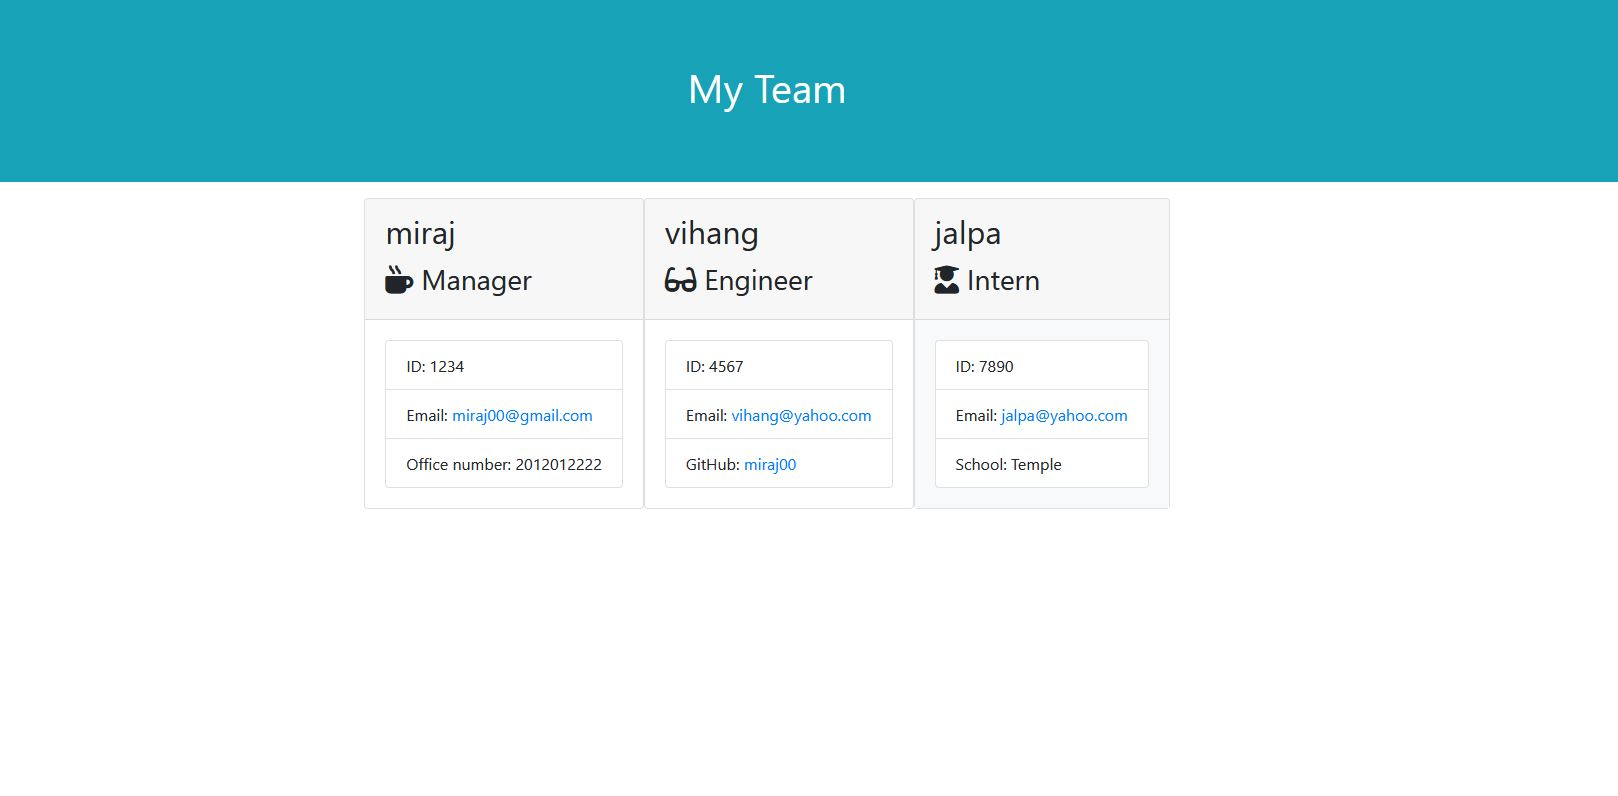
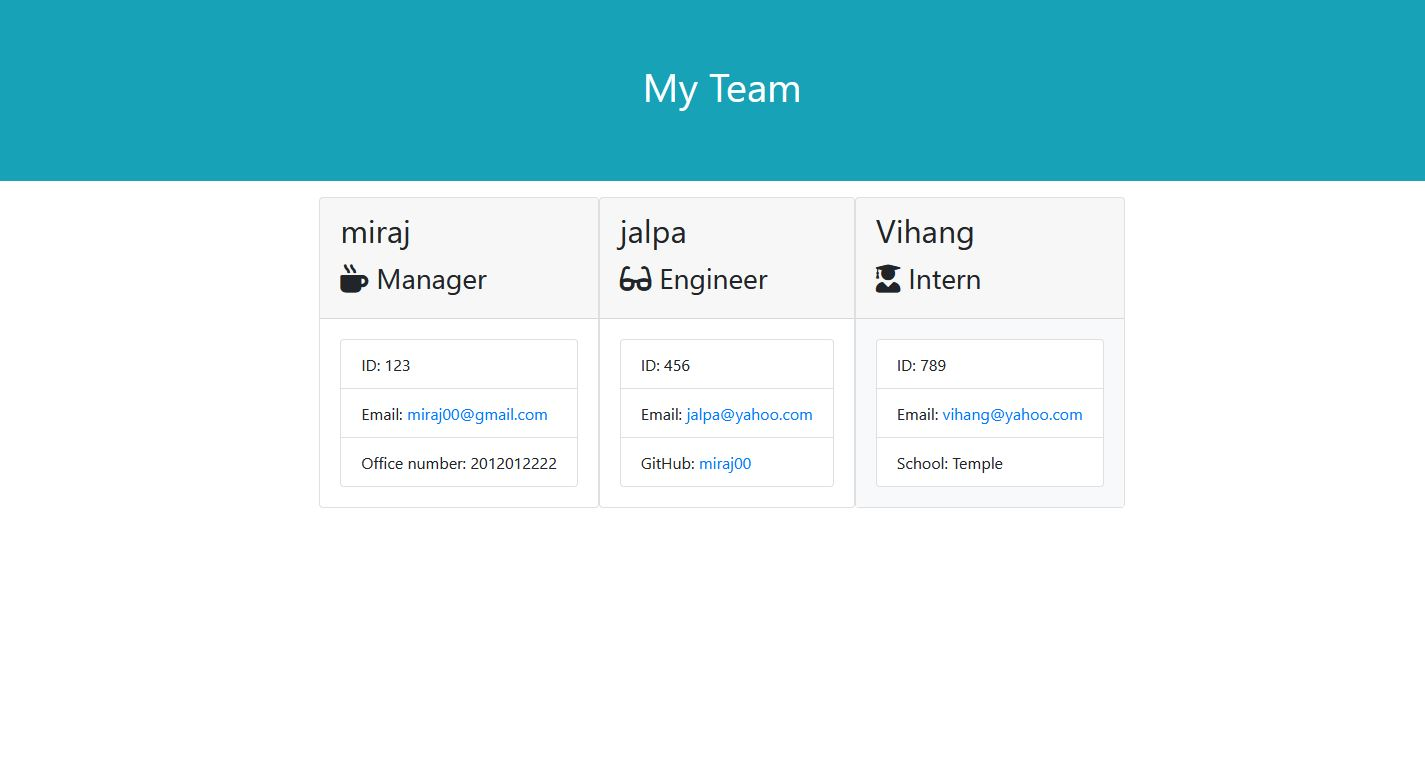
npm test added in Demo

diff --git a/output/team.html b/output/team.html
@@ -30,7 +30,7 @@
     </div>
     <div class="card-body">
         <ul class="list-group">
-            <li class="list-group-item">ID: 1234</li>
+            <li class="list-group-item">ID: 123</li>
             <li class="list-group-item">Email: <a href="mailto:miraj00@gmail.com">miraj00@gmail.com</a></li>
             <li class="list-group-item">Office number: 2012012222</li>
         </ul>
@@ -38,26 +38,26 @@
 </div>
 <div class="card employee-card">
     <div class="card-header">
-        <h2 class="card-title">vihang</h2>
+        <h2 class="card-title">jalpa</h2>
         <h3 class="card-title"><i class="fas fa-glasses mr-2"></i>Engineer</h3>
     </div>
     <div class="card-body">
         <ul class="list-group">
-            <li class="list-group-item">ID: 4567</li>
-            <li class="list-group-item">Email: <a href="mailto:vihang@yahoo.com">vihang@yahoo.com</a></li>
+            <li class="list-group-item">ID: 456</li>
+            <li class="list-group-item">Email: <a href="mailto:jalpa@yahoo.com">jalpa@yahoo.com</a></li>
             <li class="list-group-item">GitHub: <a href="https://github.com/miraj00" target="_blank" rel="noopener noreferrer">miraj00</a></li>
         </ul>
     </div>
 </div>
 <div class="card employee-card">
     <div class="card-header">
-        <h2 class="card-title">jalpa</h2>
+        <h2 class="card-title">Vihang</h2>
         <h3 class="card-title"><i class="fas fa-user-graduate mr-2"></i>Intern</h3>
     </div>
     <div class="card-body bg-light">
         <ul class="list-group">
-            <li class="list-group-item">ID: 7890</li>
-            <li class="list-group-item">Email: <a href="mailto:jalpa@yahoo.com">jalpa@yahoo.com</a></li>
+            <li class="list-group-item">ID: 789</li>
+            <li class="list-group-item">Email: <a href="mailto:vihang@yahoo.com">vihang@yahoo.com</a></li>
             <li class="list-group-item">School: Temple</li>
         </ul>
     </div>

diff --git a/test/Engineer.test.js b/test/Engineer.test.js
@@ -1,7 +1,7 @@
 const Engineer = require("../lib/Engineer");
 
-test("Can set GitHUb account via constructor", () => {
-  const testValue = "GitHubUser";
+test("Can set GitHub account via constructor", () => {
+  const testValue = this.github;
   const e = new Engineer("Foo", 1, "test@test.com", testValue);
   expect(e.github).toBe(testValue);
 });
@@ -13,7 +13,10 @@ test("getRole() should return \"Engineer\"", () => {
 });
 
 test("Can get GitHub username via getGithub()", () => {
-  const testValue = "GitHubUser";
+  const testValue = this.github;
   const e = new Engineer("Foo", 1, "test@test.com", testValue);
   expect(e.getGithub()).toBe(testValue);
 });
+
+
+// "GitHubUser"

diff --git a/test/Employee.test.js b/test/Employee.test.js
@@ -10,9 +10,9 @@ test("Can set name via constructor arguments", () => {
   const e = new Employee(name);
   expect(e.name).toBe(name);
 });
-
+//
 test("Can set id via constructor argument", () => {
-  const testValue = 100;
+  const testValue = this.id;
   const e = new Employee("Foo", testValue);
   expect(e.id).toBe(testValue);
 });
@@ -28,9 +28,9 @@ test("Can get name via getName()", () => {
   const e = new Employee(testValue);
   expect(e.getName()).toBe(testValue);
 });
-
+//
 test("Can get id via getId()", () => {
-  const testValue = 100;
+  const testValue = this.id;
   const e = new Employee("Foo", testValue);
   expect(e.getId()).toBe(testValue);
 });

diff --git a/test/Manager.test.js b/test/Manager.test.js
@@ -2,7 +2,7 @@ const Manager = require("../lib/Manager");
 const Employee = require("../lib/Employee");
 
 test("Can set office number via constructor argument", () => {
-  const testValue = 100;
+  const testValue = this.officeNumber;
   const e = new Manager("Foo", 1, "test@test.com", testValue);
   expect(e.officeNumber).toBe(testValue);
 });
@@ -14,7 +14,7 @@ test('getRole() should return "Manager"', () => {
 });
 
 test("Can get office number via getOffice()", () => {
-  const testValue = 100;
+  const testValue = this.officeNumber;
   const e = new Manager("Foo", 1, "test@test.com", testValue);
   expect(e.getOfficeNumber()).toBe(testValue);
 });

diff --git a/test/Intern.test.js b/test/Intern.test.js
@@ -1,7 +1,7 @@
 const Intern = require("../lib/Intern");
 
 test("Can set school via constructor", () => {
-  const testValue = "UCLA";
+  const testValue = this.school;
   const e = new Intern("Foo", 1, "test@test.com", testValue);
   expect(e.school).toBe(testValue);
 });
@@ -13,7 +13,7 @@ test("getRole() should return \"Intern\"", () => {
 });
 
 test("Can get school via getSchool()", () => {
-  const testValue = "UCLA";
+  const testValue = this.school;
   const e = new Intern("Foo", 1, "test@test.com", testValue);
   expect(e.getSchool()).toBe(testValue);
 });

diff --git a/lib/Employee.js b/lib/Employee.js
@@ -1,7 +1,7 @@
 // TODO: Write code to define and export the Employee class
 
 class Employee {
-  constructor(name, role, email, id) {
+  constructor(name, role, email, id ) {
    this.name = name;
    this.role = role;
    this.email = email;
